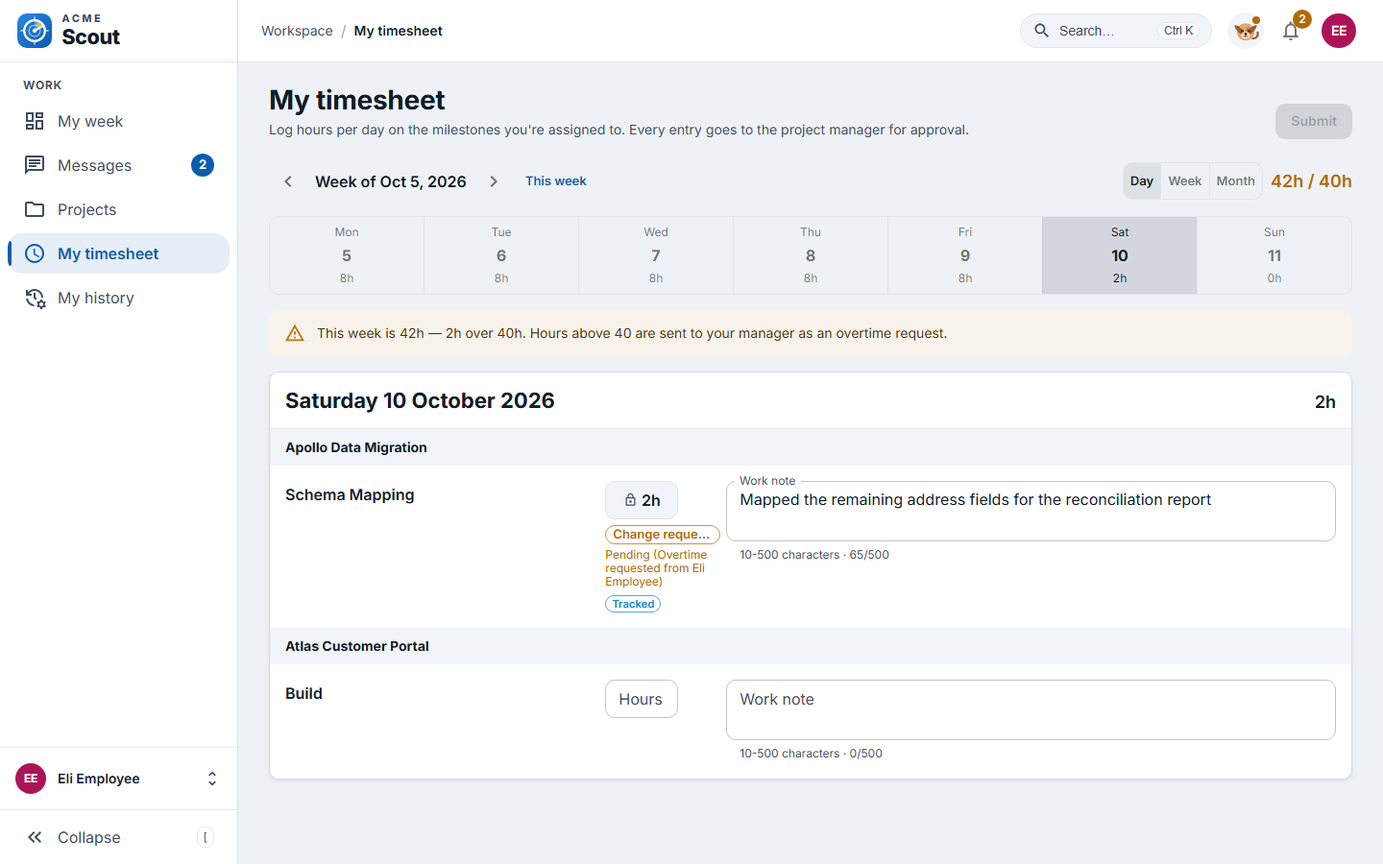
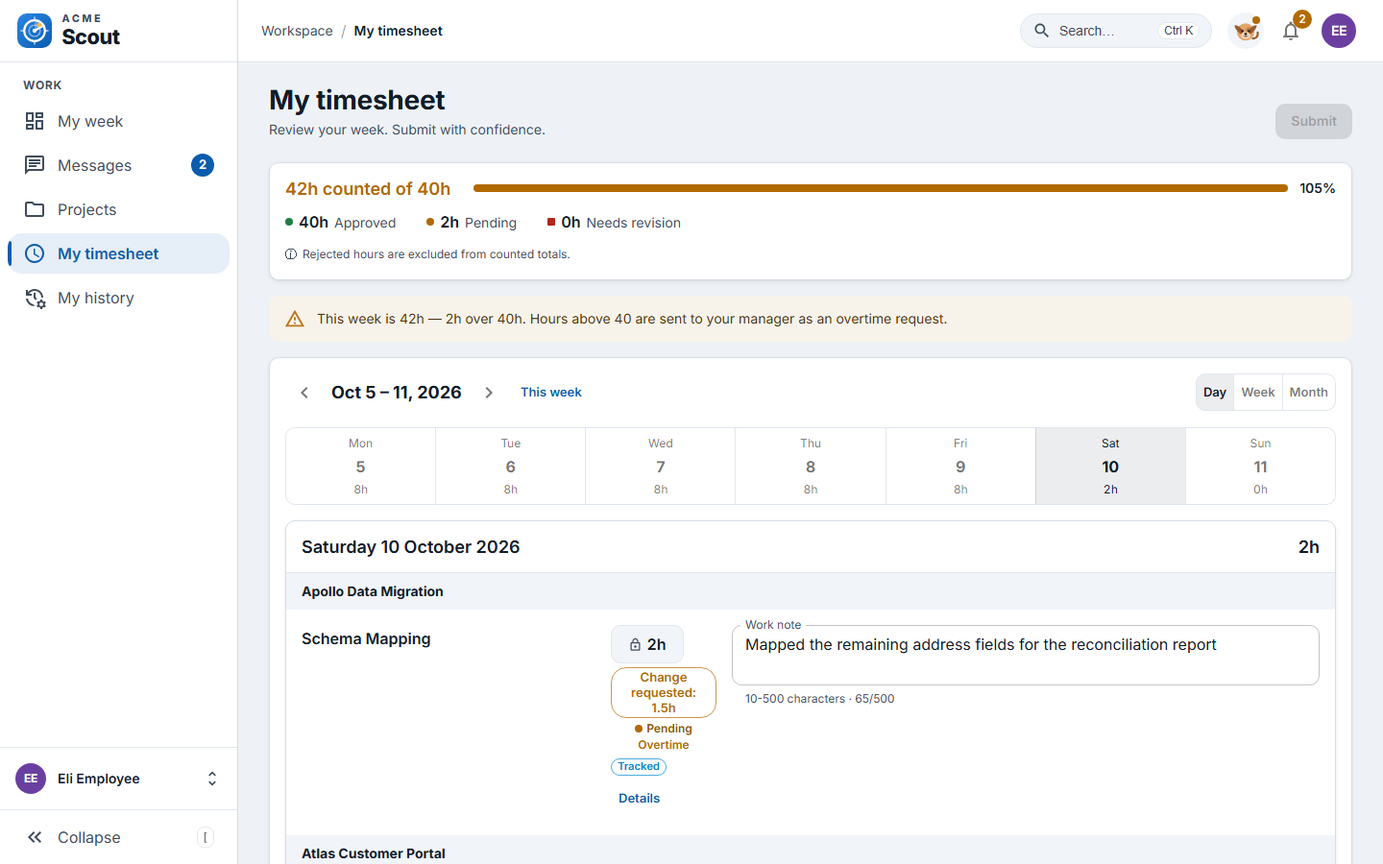
Docs and screenshots: phase 3 fixes from the final review

diff --git a/docs/project/TESTING.md b/docs/project/TESTING.md
@@ -11,11 +11,11 @@ The tests are built for **debugging**, not only for a green tick:
 |---|---|---|---|
 | Rules (unit) | pytest | part of 399 unit tests | A business rule is wrong: at-risk, over-40, cycles, the capacity cap, usernames, milestone status, priority, routing, claims, planning checks, messaging permissions, insights, reminders, timers and rounding, timer drafts and locks, over-limit thresholds, proof of work, red flags, the PNG sanitiser, or the password policy. No database is involved |
 | Core (unit) | pytest | part of 399 unit tests | The HTTP envelope, router guards, request IDs, hashing and tokens, or the SES fail-fast behaviour |
-| API (integration) | pytest + real PostgreSQL 17 | 859 | An endpoint is wrong: permissions (401/403/404), the executive and public demo guards, validation, archiving, an audit row, a race-safe update, or what one role can see vs another |
-| Frontend (component) | Vitest + React Testing Library + MSW | 1,513 (98 files) | A screen is wrong: form gating, loading/empty/error states, role-based hiding, or the payload sent to the API |
-| End-to-end | Playwright | 3 journeys × 2 devices + 17 layout checks | The pieces don't fit together in a real browser (real API, real database, real cookies), or the layout breaks where jsdom can't see it: overlapping top-bar controls, crumbs under the search field, a page wider than the window |
+| API (integration) | pytest + real PostgreSQL 17 | 860 | An endpoint is wrong: permissions (401/403/404), the executive and public demo guards, validation, archiving, an audit row, a race-safe update, or what one role can see vs another |
+| Frontend (component) | Vitest + React Testing Library + MSW | 1,551 (101 files) | A screen is wrong: form gating, loading/empty/error states, role-based hiding, or the payload sent to the API |
+| End-to-end | Playwright | 3 journeys × 2 devices + 18 layout checks | The pieces don't fit together in a real browser (real API, real database, real cookies), or the layout breaks where jsdom can't see it: overlapping top-bar controls, crumbs under the search field, a page wider than the window |
 
-Counts as of 2026-10-16, after phase 3 of the redesign (the employee screens: My week, My timesheet and My history): **1,258 backend** (399 unit, 859 integration, collected; 97% coverage at the last full run) and **1,513 frontend** in 98 files, plus **23 end-to-end** (6 journey runs and 17 layout checks); all three suites pass. The four backend tests that failed whenever the UTC date was a Friday, Saturday or Sunday are fixed (see [Weekday-dependent backend tests](#weekday-dependent-backend-tests-fixed-16-october)), and so are the two that failed on a few dates because of Delta's demo budget (see [Delta's spend](#deltas-spend-on-some-dates-fixed-16-october)). Results are under [Current results](#current-results-2026-10-16); older dated results further down are snapshots taken at the time.
+Counts as of 2026-10-16, after phase 3 of the redesign (the employee screens: My week, My timesheet and My history) and its final fix wave: **1,259 backend** (399 unit, 860 integration, collected; 97% coverage at the last full run) and **1,551 frontend** in 101 files, plus **24 end-to-end** (6 journey runs and 18 layout checks); all three suites pass. The four backend tests that failed whenever the UTC date was a Friday, Saturday or Sunday are fixed (see [Weekday-dependent backend tests](#weekday-dependent-backend-tests-fixed-16-october)), and so are the two that failed on a few dates because of Delta's demo budget (see [Delta's spend](#deltas-spend-on-some-dates-fixed-16-october)). Results are under [Current results](#current-results-2026-10-16); older dated results further down are snapshots taken at the time.
 
 **Fail-closed guard tests.** Two integration tests walk every registered write route (66 of 114 routes): [`test_public_demo.py`](../../backend/v1/tests/integration/test_public_demo.py) fails while any write route is neither allowed nor denied for the public demo admin, and [`test_executive.py`](../../backend/v1/tests/integration/test_executive.py) fails if the set of routes that let an executive write differs from the expected list, and checks that no executive response carries `salary` or `hourly_rate`. A new endpoint can't ship without a decision for both.
 
@@ -85,7 +85,7 @@ Each journey runs on **desktop Chrome (1280×800)** and on an **iPhone 13 profil
 
 ## Current results (2026-10-16)
 
-Windows 11, PostgreSQL 17, Node 24, Python 3.12. Backend: 1,227 tests (387 unit, 840 integration): 110 more than before the Month view, then 27 more with the weekday fix below. The full plain run on 16 October is the weekday fix's; the coverage run comes from `323ea89` (the timer workflow), which had 1,087 tests. The plain run at `3e61cd3` was on Thursday evening in New York, when the UTC date was already Friday, so it shows the four weekday-dependent tests fixed below. The latest figures come from phase 2 of the redesign (Task 12 of the project-page plan, 16 October): backend 1,250 passed (399 unit, 851 integration; the additions are the `sort`, `dir` and `counts` options on `GET /projects`), frontend 1,290 passed in 86 files twice in a row, lint clean, and end-to-end 23 passed (6.6 minutes, run alone). Phase 2's final fix wave then had backend 1,254 passed (399 unit, 855 integration; the four new integration tests pin the New York date in the at-risk check, an upper-case department id and an employee's `archived=true`), frontend 1,315 passed in 87 files twice in a row, lint clean, and end-to-end 23 passed (6.7 minutes, run alone). Its follow-up (the dashboard's milestone lists on the New York date, and the List/Timeline toggle keeping Back working) added one test each: backend 1,255 passed (856 integration), frontend 1,316 passed in 87 files, lint clean; end-to-end was not re-run for it. Phase 3 of the redesign (the employee screens, Task 11, 16 October) then had backend 1,258 passed (399 unit, 859 integration), frontend 1,513 passed in 98 files twice in a row, lint clean, and end-to-end 23 passed (7.1 minutes, run alone). The release run at `bc663bf`, just before the 16 October deploy, had backend 1,227, frontend 1,016 (twice in a row), lint clean and end-to-end 23 passed (5.4 minutes, run alone).
+Windows 11, PostgreSQL 17, Node 24, Python 3.12. Backend: 1,227 tests (387 unit, 840 integration): 110 more than before the Month view, then 27 more with the weekday fix below. The full plain run on 16 October is the weekday fix's; the coverage run comes from `323ea89` (the timer workflow), which had 1,087 tests. The plain run at `3e61cd3` was on Thursday evening in New York, when the UTC date was already Friday, so it shows the four weekday-dependent tests fixed below. The latest figures come from phase 2 of the redesign (Task 12 of the project-page plan, 16 October): backend 1,250 passed (399 unit, 851 integration; the additions are the `sort`, `dir` and `counts` options on `GET /projects`), frontend 1,290 passed in 86 files twice in a row, lint clean, and end-to-end 23 passed (6.6 minutes, run alone). Phase 2's final fix wave then had backend 1,254 passed (399 unit, 855 integration; the four new integration tests pin the New York date in the at-risk check, an upper-case department id and an employee's `archived=true`), frontend 1,315 passed in 87 files twice in a row, lint clean, and end-to-end 23 passed (6.7 minutes, run alone). Its follow-up (the dashboard's milestone lists on the New York date, and the List/Timeline toggle keeping Back working) added one test each: backend 1,255 passed (856 integration), frontend 1,316 passed in 87 files, lint clean; end-to-end was not re-run for it. Phase 3 of the redesign (the employee screens, Task 11, 16 October) then had backend 1,258 passed (399 unit, 859 integration), frontend 1,513 passed in 98 files twice in a row, lint clean, and end-to-end 23 passed (7.1 minutes, run alone). Its final fix wave had backend 1,259 passed (399 unit, 860 integration; the new test pins the 404 before the 400 for a bad `sections` on someone else's profile), frontend 1,551 passed in 101 files twice in a row, lint clean, and end-to-end 24 passed (7.3 minutes, run alone; the new layout check is My history between 900 and 1440 px). The release run at `bc663bf`, just before the 16 October deploy, had backend 1,227, frontend 1,016 (twice in a row), lint clean and end-to-end 23 passed (5.4 minutes, run alone).
 
 ```
 # backend/v1: OVERWATCH_TEST_DB=overwatch_test_docs2 python -m pytest -o addopts="" -q
@@ -98,6 +98,7 @@ Windows 11, PostgreSQL 17, Node 24, Python 3.12. Backend: 1,227 tests (387 unit,
 1254 passed in 210.65s (0:03:30)                  # 16 Oct, phase 2's final fix wave
 1255 passed in 211.80s (0:03:31)                  # 16 Oct, its follow-up
 1258 passed in 211.41s (0:03:31)                  # 16 Oct, phase 3 (Task 11): the employee screens; run with OVERWATCH_TEST_DB=overwatch_test_p3
+1259 passed in 229.95s (0:03:49)                  # 16 Oct, phase 3's final fix wave; same database
 
 # backend/v1: same, with --cov=app (at 323ea89)
 app\features\time\timers.py                240      9    96%
@@ -107,11 +108,12 @@ TOTAL                                     6456    175    97%
 
 # collected per layer
 tests/unit:        399 tests
-tests/integration: 859 tests
+tests/integration: 860 tests
 
 # frontend: npx vitest run (two runs in a row, each the same)
- Test Files  98 passed (98)
-      Tests  1513 passed (1513)      # phase 3 (Task 11), both runs (119.1 s and 121.5 s, then 124.2 s and 122.5 s after a lint fix to one test file)
+ Test Files  101 passed (101)
+      Tests  1551 passed (1551)      # phase 3's final fix wave, both runs (137.9 s, 136.7 s)
+      Tests  1513 passed (1513)      # phase 3 (Task 11), 98 files, both runs (119.1 s and 121.5 s, then 124.2 s and 122.5 s after a lint fix to one test file)
       Tests  1316 passed (1316)      # phase 2's final fix wave's follow-up, 87 files (109.0 s)
       Tests  1315 passed (1315)      # phase 2's final fix wave, both runs (106.2 s, 107.7 s)
       Tests  1290 passed (1290)      # phase 2 (Task 12), both runs, 86 files; 73 files and 1016 tests at bc663bf
@@ -125,15 +127,18 @@ no problems
   23 passed (6.6m)                                 # phase 2 (Task 12), alone
   23 passed (6.7m)                                 # phase 2's final fix wave, alone
   23 passed (7.1m)                                 # phase 3 (Task 11), alone
+  24 passed (7.3m)                                 # phase 3's final fix wave, alone
 ```
 
-The end-to-end suite (3 journeys × desktop Chrome and iPhone 13 WebKit, plus 17 layout checks: 23 tests, 5.2 minutes) was last brought up to date on 16 October, with the shell fix wave and wave 3 (the layout checks: 320 px phones, the 24 px back link, 900–1024 px desktops; the Month panel's buttons are now named "Edit in Day view, <milestone>"): the overtime journey logs day by day in the Day view (hours and a work note per day, one **Submit** for the week) and follows the alert to the Timesheets page (after submitting, it switches to **Month**, selects Friday, checks that the day's panel lists its 9h pending, and presses **Edit in Day view** to land on that day; on a phone the panel sits under the grid), and the onboarding journey lands on My week. Phase 3 then brought them up to the employee screens: the overtime journey reads "45h counted of 40h" in the **Week totals** group before and after **Submit** and finds **Overtime** only on Friday in the Day view; the onboarding journey checks the **Your manager** and **Your focus** regions ("Nothing assigned to you right now"); the milestones journey collapses My week's **Completed** group, reloads to see it still collapsed, and expands it; and the 375 px layout check also measures My week's previous week, My timesheet's Day, Week (the grid scrolls inside its card while the page does not, and the Milestone column stays put), Entry details and Month views, and My history's Projects tab. All 23 pass. When the machine is busy with other suites, the milestones journey can time out waiting on the API; run the end-to-end suite on its own.
+The end-to-end suite (3 journeys × desktop Chrome and iPhone 13 WebKit, plus 17 layout checks: 23 tests, 5.2 minutes) was last brought up to date on 16 October, with the shell fix wave and wave 3 (the layout checks: 320 px phones, the 24 px back link, 900–1024 px desktops; the Month panel's buttons are now named "Edit in Day view, <milestone>"): the overtime journey logs day by day in the Day view (hours and a work note per day, one **Submit** for the week) and follows the alert to the Timesheets page (after submitting, it switches to **Month**, selects Friday, checks that the day's panel lists its 9h pending, and presses **Edit in Day view** to land on that day; on a phone the panel sits under the grid), and the onboarding journey lands on My week. Phase 3 then brought them up to the employee screens: the overtime journey reads "45h counted of 40h" in the **Week totals** group before and after **Submit** and finds **Overtime** only on Friday in the Day view; the onboarding journey checks the **Your manager** and **Your focus** regions ("Nothing assigned to you right now"); the milestones journey collapses My week's **Completed** group, reloads to see it still collapsed, and expands it; and the 375 px layout check also measures My week's previous week, My timesheet's Day, Week (the grid scrolls inside its card while the page does not, and the Milestone column stays put), Entry details and Month views, and My history's Projects tab. The final fix wave added one desktop check, My history at 900, 960, 1024 and 1440 px with the sidebar open and collapsed (no sideways page scroll; the table fits at 1440 and otherwise scrolls inside its card with a fade at the edge), and made the 375 px Week view stricter: the point in the middle of the first day cell must be that cell (the fixed Milestone column, capped and wrapping, never covers it, long names included), employee.demo must have a saved entry, and Entry details opens with a real tap. Against the grid before the fix, that check reports the Milestone cell on top and the tap fails ("th intercepts pointer events"). All 24 pass. When the machine is busy with other suites, the milestones journey can time out waiting on the API; run the end-to-end suite on its own.
 
 **Load flakes fixed (16 October).** Three tests used to fail now and then when the whole suite ran, and pass alone. Each waited for the wrong thing:
 - `access.test.jsx` (the 403/404 redirects): the toast and the move home start together, but React Router runs navigation as a transition, which can commit after the toast under load. The tests now wait for the landing page or the location, not the toast.
 - `messages.test.jsx` ("shows my messages… and marks it read"): the stubbed thread never moved `last_read_at`, so the page marked it read again after every refetch (22 times in 1.5 s), and "read once" only passed if the check landed between two posts. The stub now behaves like the server.
 - `login.test.jsx` (the demo session running out): it waited 1.5 s of real time; the session timer now runs on a controlled clock.
 Proof: the three files ran 10 times in a row next to a full suite (107/107 each time), and the full suite then passed five times in a row.
+
+A fourth, `timesheet.test.jsx` ("notification bell shows unread count and marks read on click"), waited until the stubbed server saw the read and then read the URL at once; the bell navigates only after the read's reply comes back, so under load the URL could still be the old one. It now waits for the landing. With the reply held 50 ms after the read (a throwaway copy), the old form failed every time and the new one passed. Proof under load (the file next to `milestones.test.jsx`, 10 runs each): before the fix 10 of 10 passed (the race is rare here), after it 10 of 10.
 
 ### The at-risk clock in the backend tests
 

diff --git a/docs/project/USER_STORIES.md b/docs/project/USER_STORIES.md
@@ -268,7 +268,7 @@ Each panel is titled with the question it answers, and the panels are labelled r
 - **Loading:** a skeleton. **Submit** shows "Saving…".
 - **Success:**
   - The **Day view** is the default, one day at a time:
-    - A **Week totals** card at the top reads "19.75h counted of 40h" with a bar and a percentage, then "15.75h Approved", "4h Pending" and "8h Needs revision" ("Rejected hours are excluded from counted totals."). The week card under it has previous/next week buttons, the range ("Oct 12 – 18, 2026"), **This week** and a strip of seven day buttons (Mon to Sun), each showing that day's hours. A day over 24h turns red.
+    - A **Week totals** card at the top reads "19.75h counted of 40h" with a bar and a percentage, then "15.75h Approved", "4h Pending" and "8h Needs revision" ("Rejected hours are excluded from counted totals."). It counts the same cells as the grid, plus any hours saved that week on a milestone I'm no longer assigned to (the server counts them toward the 40h), with "Includes 3h on milestones you're no longer assigned to." when there are some. While another week loads it shows a placeholder rather than mixing two weeks. The week card under it has previous/next week buttons, the range ("Oct 12 – 18, 2026"), **This week** and a strip of seven day buttons (Mon to Sun), each showing that day's hours. A day over 24h turns red.
     - The page opens on today (New York's date) in the current week, otherwise on Monday. The open day is kept in the address (`?week=…&day=…`).
     - The open day has one row per assigned milestone, grouped by project when there is more than one, each with an hours field and a work note that is always visible (10-500 characters, with a counter, marked "needed" when the hours are new or changed and there's no note or same-day progress update).
     - A **Start** button appears on today's rows only.
@@ -278,6 +278,7 @@ Each panel is titled with the question it answers, and the panels are labelled r
   - The **Week grid** has the **Milestone** column, a column per weekday over its date ("Mon" over "Oct 12"), a "Today" mark under today's date, and **Counted**. Each saved cell shows its status in words (**Approved**, **Pending**, **Needs revision**, and **Overtime** beside it for an entry past 40h) with a legend; the last row is "Daily total (counted)". "ⓘ 27.75h entered · 8h excluded until resubmitted." sits under the card. On a phone the grid scrolls inside its card while the Milestone column stays in place and the page itself never scrolls sideways.
   - **Entry details** opens from a cell's status words (or **Details** on a Day view row; `?entry=milestone:date` in the address) as a side panel beside the grid, or a full-screen sheet on a phone. It shows the date, **Hours**, **Work note**, the manager's feedback on a rejected entry, **Source** (Manual, Tracked or Mixed, "4h from a timer") and the buttons **Request a change** (timer hours), **Save & resubmit** and **Done**. "Changing approved hours sends them back for approval." **Save & resubmit** sends this one cell alone in one save, leaving other typing unsent; **Done** closes the panel and keeps the edits. A link naming a cell that isn't a saved entry of the shown week closes quietly.
   - **Typing survives a reload.** Unsent hours and notes are kept in this browser tab (`sessionStorage`) and come back after a reload with "Unsaved changes restored. Submit to send them."; only cells still listed and open come back. **Submit** and signing out clear them.
+  - Nothing typed can be sent while a week is still loading. Typing on a milestone closed or unassigned since it was typed stays out of the totals and of **Submit**, and a line says so: "2 typed cells are on milestones that are no longer open and won't be sent."
   - The **Month** calendar (`?month=YYYY-MM&day=YYYY-MM-DD`, with previous/next month buttons) is about hours, not milestones:
     - Each day shows its total (pending and approved only) and a chip per line with an icon and a word: approved, "Pending", "Needs revision" (hours struck through) or "Not submitted" (a timer draft). On a phone the lines are small shapes instead.
     - "⚠ Over 40h" marks an overtime day, and "📅 N milestone deadlines" a day when one of my unfinished milestones ends.
@@ -422,7 +423,9 @@ Each panel is titled with the question it answers, and the panels are labelled r
   - **My history** (`/people/<me>/profile`) reads "Your work record, including completed milestones." The profile card shows name, job title, department, **Skills**, **Your manager** with **Message Morgan**, and **Employment details** (collapsed; "Annual salary and other employment details"). The salary appears only after opening it, and only for the person themselves and admins.
   - "Week of Oct 12, 2026": **Logged this week** (pending and approved), **Planned this week** and **Overtime this week** (above 40h). "All time summary": **Total hours logged** and **Total hours approved**. The strips use two columns on a phone.
   - Two tabs, **Projects** and **Milestones** (`?tab=projects`, else Milestones), list every project they've been on (including completed ones, "Left the team" when no longer on it) and every milestone they've worked on, with role (primary or supporting), status, planned dates and hours logged and approved. Milestones can be searched and filtered by project. On a phone the tables become stacked cards.
-  - **Archived work is per role**: employees never see it. Managers and admins get **Include archived**, with "Archived", "Project archived" and "Project completed" chips.
+  - **Archived work is per role**: employees never see it. Admins and executives get **Include archived** on anyone's page, and a manager on their own page only (the server leaves archived work out of the pages a manager opens for their people, so there's nothing to include). It sits beside the tabs and counts for both, showing the "Archived" and "Project archived" chips; "Project completed" marks a finished project's milestones either way.
+  - The tabs card spans the page under the profile card and the week's figures, so all six Milestones columns fit at 1440 px; on a narrower window the table scrolls inside its card, with a fade at the edge that has more.
+  - Moving to another person's page starts fresh: **Employment details** closed and the search, project filter and **Include archived** cleared, even when that page was opened before.
   - The footer reads "Read-only history. Edit eligible hours in My timesheet."
   - Employees reach it from **My history** in the menu; managers and admins click a name on the Allocation page.
 - **Failure:** anyone outside the rules above gets "Profile not available" (the server returns `404`, so it doesn't reveal who exists).
@@ -515,10 +518,12 @@ Everything below was built after the first deploy and is live. **Status** is **D
 **As** an employee, **I want** a home page with my hours this week and the milestones on my plate **so that** I know what to do next.
 - **Success:** **My week** (the employee's home, `/`) reads "Hello, Eli. Your work and hours in one place." and holds:
   - **Your focus**: a **Now** card (the most urgent milestone in progress, with "Due Oct 5, 2026 · 10 days overdue", priority, difficulty, "40% done", **View milestone**, **Discuss** once the milestone has a discussion, and today's **Start timer**) and a **Next** card (the first upcoming milestone: "Ready to start", "Starts Oct 21, 2026" or "Waiting on Discovery"). Nothing in progress reads "Nothing in progress" with a "Start <name> next" link. A one-line heads-up, "Heads-up: <name> (High priority) may come your way", links down to **Might come your way**.
-  - **Collapsible groups** (each button says "<Group>, N milestones", opens and closes with `aria-expanded`, and is remembered in this browser): **In progress**, **Upcoming**, **With your manager** (handed in: "Your manager completes the milestone."), **Might come your way** (milestones auto-routing may give me, with "Needs <skill>, which you have", "Ready now" or "After <names>", and "New" when it appeared since my last visit; "It's a likely pick, not a promise.") and **Completed**. An empty group isn't shown.
+  - **Collapsible groups** (each button says "<Group>, N milestones", opens and closes with `aria-expanded`, and is remembered in this browser): **In progress**, **Upcoming**, **With your manager** (handed in: "Your manager completes the milestone."), **Might come your way** (milestones auto-routing may give me, with "Needs <skill>, which you have", "Ready now" or "After <names>", and "New" when the milestone was created in the last 7 days; "It's a likely pick, not a promise.") and **Completed**. An empty group isn't shown.
   - **Available to claim** on pull-mode projects (an empty list says "No unassigned milestones available right now.").
   - **This week's hours**: "Pending + approved", the hours logged against the 40h weekly reference, a planned-against-logged bar, "5h over 40h (sent to your manager as overtime)", and **Open my timesheet**. A **week picker** (Previous week, "Oct 12 – 18, 2026", Next week, **This week**; the address keeps `?week=`) turns the card into "Hours · week of Oct 5" for any past week. A future or malformed `?week=` shows this week. "This week" is New York's.
-  - **Your manager** (see E9). On a phone the order is Your focus, the groups, hours, then Your manager.
+  - Today's **Start** sits on In progress and Upcoming rows the timesheet lets me log on today (and on the Now card); on My week it is a 44 px target, as is **Claim**.
+  - **Your manager** (see E9); beside the hours on a desktop its **Message Morgan** button sits under the name. On a phone the order is Your focus, This week's hours, the groups, Available to claim, then Your manager.
+  - "This week" is New York's: on a Sunday evening there, when the server's UTC date is already Monday, My week and My history still show the week of Oct 12.
 - **Empty:** "Nothing assigned to you right now. Milestones your manager gives you, or that you claim, show up here."
 
 #### E2. Time my work with a start/stop timer (U) — Done

diff --git a/README.md b/README.md
@@ -12,7 +12,7 @@ Scout is a project tracking platform for ACME Inc. It gives admins, project mana
 |---|---|
 | **Live site** | https://d3ucnz03j0sngl.cloudfront.net |
 | **Stack** | React 19 · Material UI 9 · React Responsive · Python 3 on AWS Lambda · Aurora PostgreSQL 17 |
-| **Tests** | 1,255 backend (399 unit · 856 integration; 97% coverage at the last full run) · 1,316 frontend component (87 files) · 23 end-to-end (3 journeys × desktop + mobile, and 17 layout checks: the phone top bar from 320 px, the desktop crumbs, no sideways scroll at 375 px or between 900 and 1024 px); backend, frontend and end-to-end all passing on 16 Oct — see [TESTING.md](docs/project/TESTING.md) |
+| **Tests** | 1,259 backend (399 unit · 860 integration; 97% coverage at the last full run) · 1,551 frontend component (101 files) · 24 end-to-end (3 journeys × desktop + mobile, and 18 layout checks: the phone top bar from 320 px, the desktop crumbs, no sideways scroll at 375 px or between 900 and 1024 px, My history up to 1440 px, the phone Week grid's fixed column); backend, frontend and end-to-end all passing on 16 Oct — see [TESTING.md](docs/project/TESTING.md) |
 | **Source** | https://github.com/RootMoataz/citi-overwatch (the repository keeps its original name for now) |
 
 ## What it does
@@ -57,13 +57,13 @@ Screenshots of the running app on its demo data (light mode unless noted).
 
 | | |
 |---|---|
-| ![My week: the header with its week picker (Oct 12 – 18, 2026), a Your focus card with the overdue Build milestone as Now, Hypercare as Next and a heads-up that Cutover may come your way, an In progress group, and on the right the This week's hours card (45h logged of a 40h weekly reference, 5h over 40h, an Open my timesheet button) above the Your manager card](docs/images/my-week.png) | ![Kick back dialog on the Hypercare milestone, opened from its side panel on the Milestones tab: a What's wrong? category and an Explain box, with Cancel and Kick back buttons](docs/images/kickback.png) |
+| ![My week: the header with its week picker (Oct 12 – 18, 2026), a Your focus card with the overdue Build milestone as Now, Hypercare as Next and a heads-up that Cutover may come your way, an In progress group, and on the right the This week's hours card (45h logged of a 40h weekly reference, 5h over 40h, an Open my timesheet button) above the Your manager card, its Message Morgan button under the name](docs/images/my-week.png) | ![Kick back dialog on the Hypercare milestone, opened from its side panel on the Milestones tab: a What's wrong? category and an Explain box, with Cancel and Kick back buttons](docs/images/kickback.png) |
 | **My week**: **Your focus** (Now, Next and a heads-up), collapsible groups (In progress, Upcoming, With your manager, Might come your way, Completed), milestones to claim, this week's hours (any past week through the week picker) and your manager | **Kick back** a blocked milestone to the manager with a reason, from the milestone's side panel |
-| ![My timesheet, Week view: a Week totals card (45h counted of 40h, 0h Approved, 45h Pending, 0h Needs revision), the overtime notice, the Week grid with weekday and date columns and a Pending status under each 9h cell, and the Entry details panel for Schema Mapping on Fri, Oct 16 with its Pending approval and Overtime chips, Hours, Work note, Source and a Done button](docs/images/my-timesheet.png) | ![The This week's hours card (45h logged of a 40h weekly reference, 5h over 40h) above the Your manager card: Morgan Manager, Delivery Manager in Technology, with a Message Morgan button](docs/images/your-manager.png) |
+| ![My timesheet, Week view: a Week totals card (45h counted of 40h, 0h Approved, 45h Pending, 0h Needs revision), the overtime notice, the Week grid with weekday and date columns and a Pending status under each 9h cell, its right edge fading where the days continue, and beside it the Entry details panel for Schema Mapping on Fri, Oct 16 with its Pending approval and Overtime chips, Hours, Work note, Source and a Done button](docs/images/my-timesheet.png) | ![The This week's hours card (45h logged of a 40h weekly reference, 5h over 40h) above the Your manager card: Morgan Manager, Delivery Manager in Technology, with a Message Morgan button under the name](docs/images/your-manager.png) |
 | **My timesheet**: a **Week totals** card, then the Day, Week or Month view; the Week grid shows each cell's status in words (Approved, Pending, Needs revision, Overtime) and opens **Entry details** with **Save & resubmit** for one cell. Typing you haven't submitted survives a reload | **Your manager**: who they are, and one press to message them |
-| ![My timesheet, Month view, October 2026: each day's hours as status chips, Over 40h marks, milestone-deadline markers, and today's panel beside the grid with its 9h pending, Timer-linked entry, Source and an Edit in Day view button](docs/images/timesheet-month.png) | ![My history: the profile card (Eli Employee, Software Engineer, Skills, Your manager with a Message Morgan button, and a closed Employment details), the Week of Oct 12 figures (45h logged, 40h planned, 5h overtime), the All time summary, and the Projects and Milestones tabs with the milestone table](docs/images/my-history.png) |
+| ![My timesheet, Month view, October 2026: each day's hours as status chips, Over 40h marks, milestone-deadline markers, and today's panel beside the grid with its 9h pending, Timer-linked entry, Source and an Edit in Day view button](docs/images/timesheet-month.png) | ![My history: the profile card (Eli Employee, Software Engineer, Skills, Your manager with a Message Morgan button, and a closed Employment details), the Week of Oct 12 figures (45h logged, 40h planned, 5h overtime), the All time summary, and across the page under them the Projects and Milestones tabs with all six milestone columns (Milestone, Project, Status, Planned dates, Hours logged, Hours approved) and the read-only footer](docs/images/my-history.png) |
 | **My timesheet, Month**: each day's hours by approval status (icon and word, never colour alone), milestone deadlines as small markers, and a panel for the selected day with **Edit in Day view** | **My history**: your profile, this week and all-time hours, and every project and milestone you've worked on, read-only; the salary stays behind **Employment details** |
-| ![My timesheet, Day view, on Saturday 10 Oct: the week strip with each day's hours (42h / 40h), and the Schema Mapping row holding 2h of timer hours behind a padlock, with a Tracked label, a Change requested: 1.5h chip and the work note](docs/images/timer-locked-cell.png) | |
+| ![My timesheet, Day view, on Saturday 10 Oct: the Week totals card (42h counted of 40h, 40h Approved, 2h Pending), the overtime notice, the week strip with each day's hours, and the Schema Mapping row holding 2h of timer hours behind a padlock, with a Change requested: 1.5h chip, its Pending and Overtime status, a Tracked label, Details and the work note](docs/images/timer-locked-cell.png) | |
 | **My timesheet, one day at a time**: a week strip, a row per milestone, and timer hours in a locked cell; **Request a change** asks the manager (here one for 1.5h is already waiting) | |
 
 <p>
@@ -176,8 +176,8 @@ Connection settings come from `POSTGRES_HOST`, `POSTGRES_PORT`, `POSTGRES_USER`,
 ## Tests
 
 ```bash
-cd backend/v1 && python -m pytest --cov=app              # 1,258 unit + integration tests against local Postgres
-cd frontend && npm test                                  # 1,513 component tests (Vitest + Testing Library)
+cd backend/v1 && python -m pytest --cov=app              # 1,259 unit + integration tests against local Postgres
+cd frontend && npm test                                  # 1,551 component tests (Vitest + Testing Library)
 cd frontend && npx playwright install chromium webkit    # once
 cd frontend && npm run e2e                               # 3 journeys × desktop Chrome and iPhone 13 (WebKit), plus 17 layout checks
 cd frontend && npm run lint

diff --git a/docs/project/DEMO_SCRIPT.md b/docs/project/DEMO_SCRIPT.md
@@ -67,13 +67,17 @@ that each one signs in to a public demo account with sample data.
 
 Click **Employee**.
 
-1. **My week (READ).** Start with **Your focus**: the **Now** card is *Build* (Atlas), overdue, with **Critical
-   priority**, **Hard difficulty**, its progress and **View milestone**; **Next** is the first upcoming milestone.
+1. **My week (READ).** Start with **Your focus**: the **Now** card is *Build* (Atlas), overdue (its due line says
+   by how many days), with **Critical priority**, **Hard difficulty** and **View milestone**; **Next** is the first
+   upcoming milestone, *Hypercare*, which reads "Waiting on Cutover" (Cutover isn't completed yet).
    Then open the groups below it (each button says its count, for example "In progress, 1 milestone", and
    remembers whether you closed it):
-   - **In progress**: *Build* (Atlas).
-   - **With your manager**: *Schema Mapping* (Apollo), "Submitted for review. Your manager completes the milestone.", **High priority**.
-   - **Upcoming**: *Hypercare* (Apollo), "Ready to start", **Easy difficulty** (the default Medium priority chip is hidden).
+   - **In progress**: *Build* (Atlas), with its due line, its state and its **Critical Priority** and **Hard
+     Difficulty** chips.
+   - **With your manager**: *Schema Mapping* (Apollo), with just "Submitted for review. Your manager completes the
+     milestone." (no chips: it's in the manager's hands now).
+   - **Upcoming**: *Hypercare* (Apollo), with its due date, its state ("Waiting on dependencies") and "Waiting on
+     Cutover". A row the timesheet lets you log on today also has **Start**.
 
    Then the **This week's hours** card: "31.75h logged" of the 40h weekly reference, with the planned and logged bars.
    Press **Previous week** in its week picker to show an earlier week's hours, then **This week**. Say: "Priority is
@@ -84,8 +88,9 @@ Click **Employee**.
    own hours in **Your hours**. Select the *Schema Mapping* row: the panel's **Details** reads "Est. 441h · …" with
    how much of the estimate is logged. The line turns amber above 90% and red above 100%. Close the panel with
    **Close** or Esc.
-3. **Your manager (READ).** At the foot of My week (above the hours on a phone), the **Your manager** card shows Morgan's photo, title and
-   department and a **Message Morgan** button. Say: "One press to message your manager." (Same card on your own
+3. **Your manager (READ).** In My week's right column, under **This week's hours** (on a phone, last on the page,
+   after **Available to claim**), the **Your manager** card shows Morgan's photo, title and department and a
+   **Message Morgan** button. Say: "One press to message your manager." (Same card on your own
    profile.)
 4. **Timer: start → stop → pre-filled, locked row → Submit (WRITE, repeatable).** The timer started in the other
    window is running: the header chip ticks and turns amber, and a banner says "You've reached your 8h for today on
@@ -292,7 +297,7 @@ Say:
 > salaries are stripped from every executive response; photos are rebuilt from checked pixels by a pure-Python PNG
 > sanitiser, so nothing uploaded is served as-is.
 >
-> Tests: 1,255 backend tests (97% coverage at the last full run), 1,316 frontend component tests, and 23 end-to-end tests
+> Tests: 1,259 backend tests (97% coverage at the last full run), 1,551 frontend component tests, and 24 end-to-end tests
 > (3 journeys on desktop and iPhone, plus layout checks on phones and narrow desktops); all three suites passed on 16 October.
 >
 > Next: server-side email needs an SES endpoint, which is waiting on the instructors, and the GitHub repository gets
@@ -333,9 +338,9 @@ One open kickback per milestone and one running timer per person are enforced by
 submissions keep a frozen copy of each payroll CSV.
 
 **Testing strategy?** Test-first. Business rules are pure functions with exhaustive edge cases (399 unit tests).
-856 integration tests run against a real PostgreSQL 17, because mocks hide SQL bugs. 1,316 component tests use Vitest
-and MSW, where an unhandled request fails the test. 23 Playwright tests cover 3 journeys on desktop Chrome and iPhone
-13 and 17 layout checks (the top bar never overlaps from 320 px phones to 1440 px desktops, long names never push a page
+860 integration tests run against a real PostgreSQL 17, because mocks hide SQL bugs. 1,551 component tests use Vitest
+and MSW, where an unhandled request fails the test. 24 Playwright tests cover 3 journeys on desktop Chrome and iPhone
+13 and 18 layout checks (the top bar never overlaps from 320 px phones to 1440 px desktops, long names never push a page
 sideways at 375 px); these and
 the component tests all passed on 16 October. Two fail-closed tests walk every write route for the executive and demo-admin guards.
 
